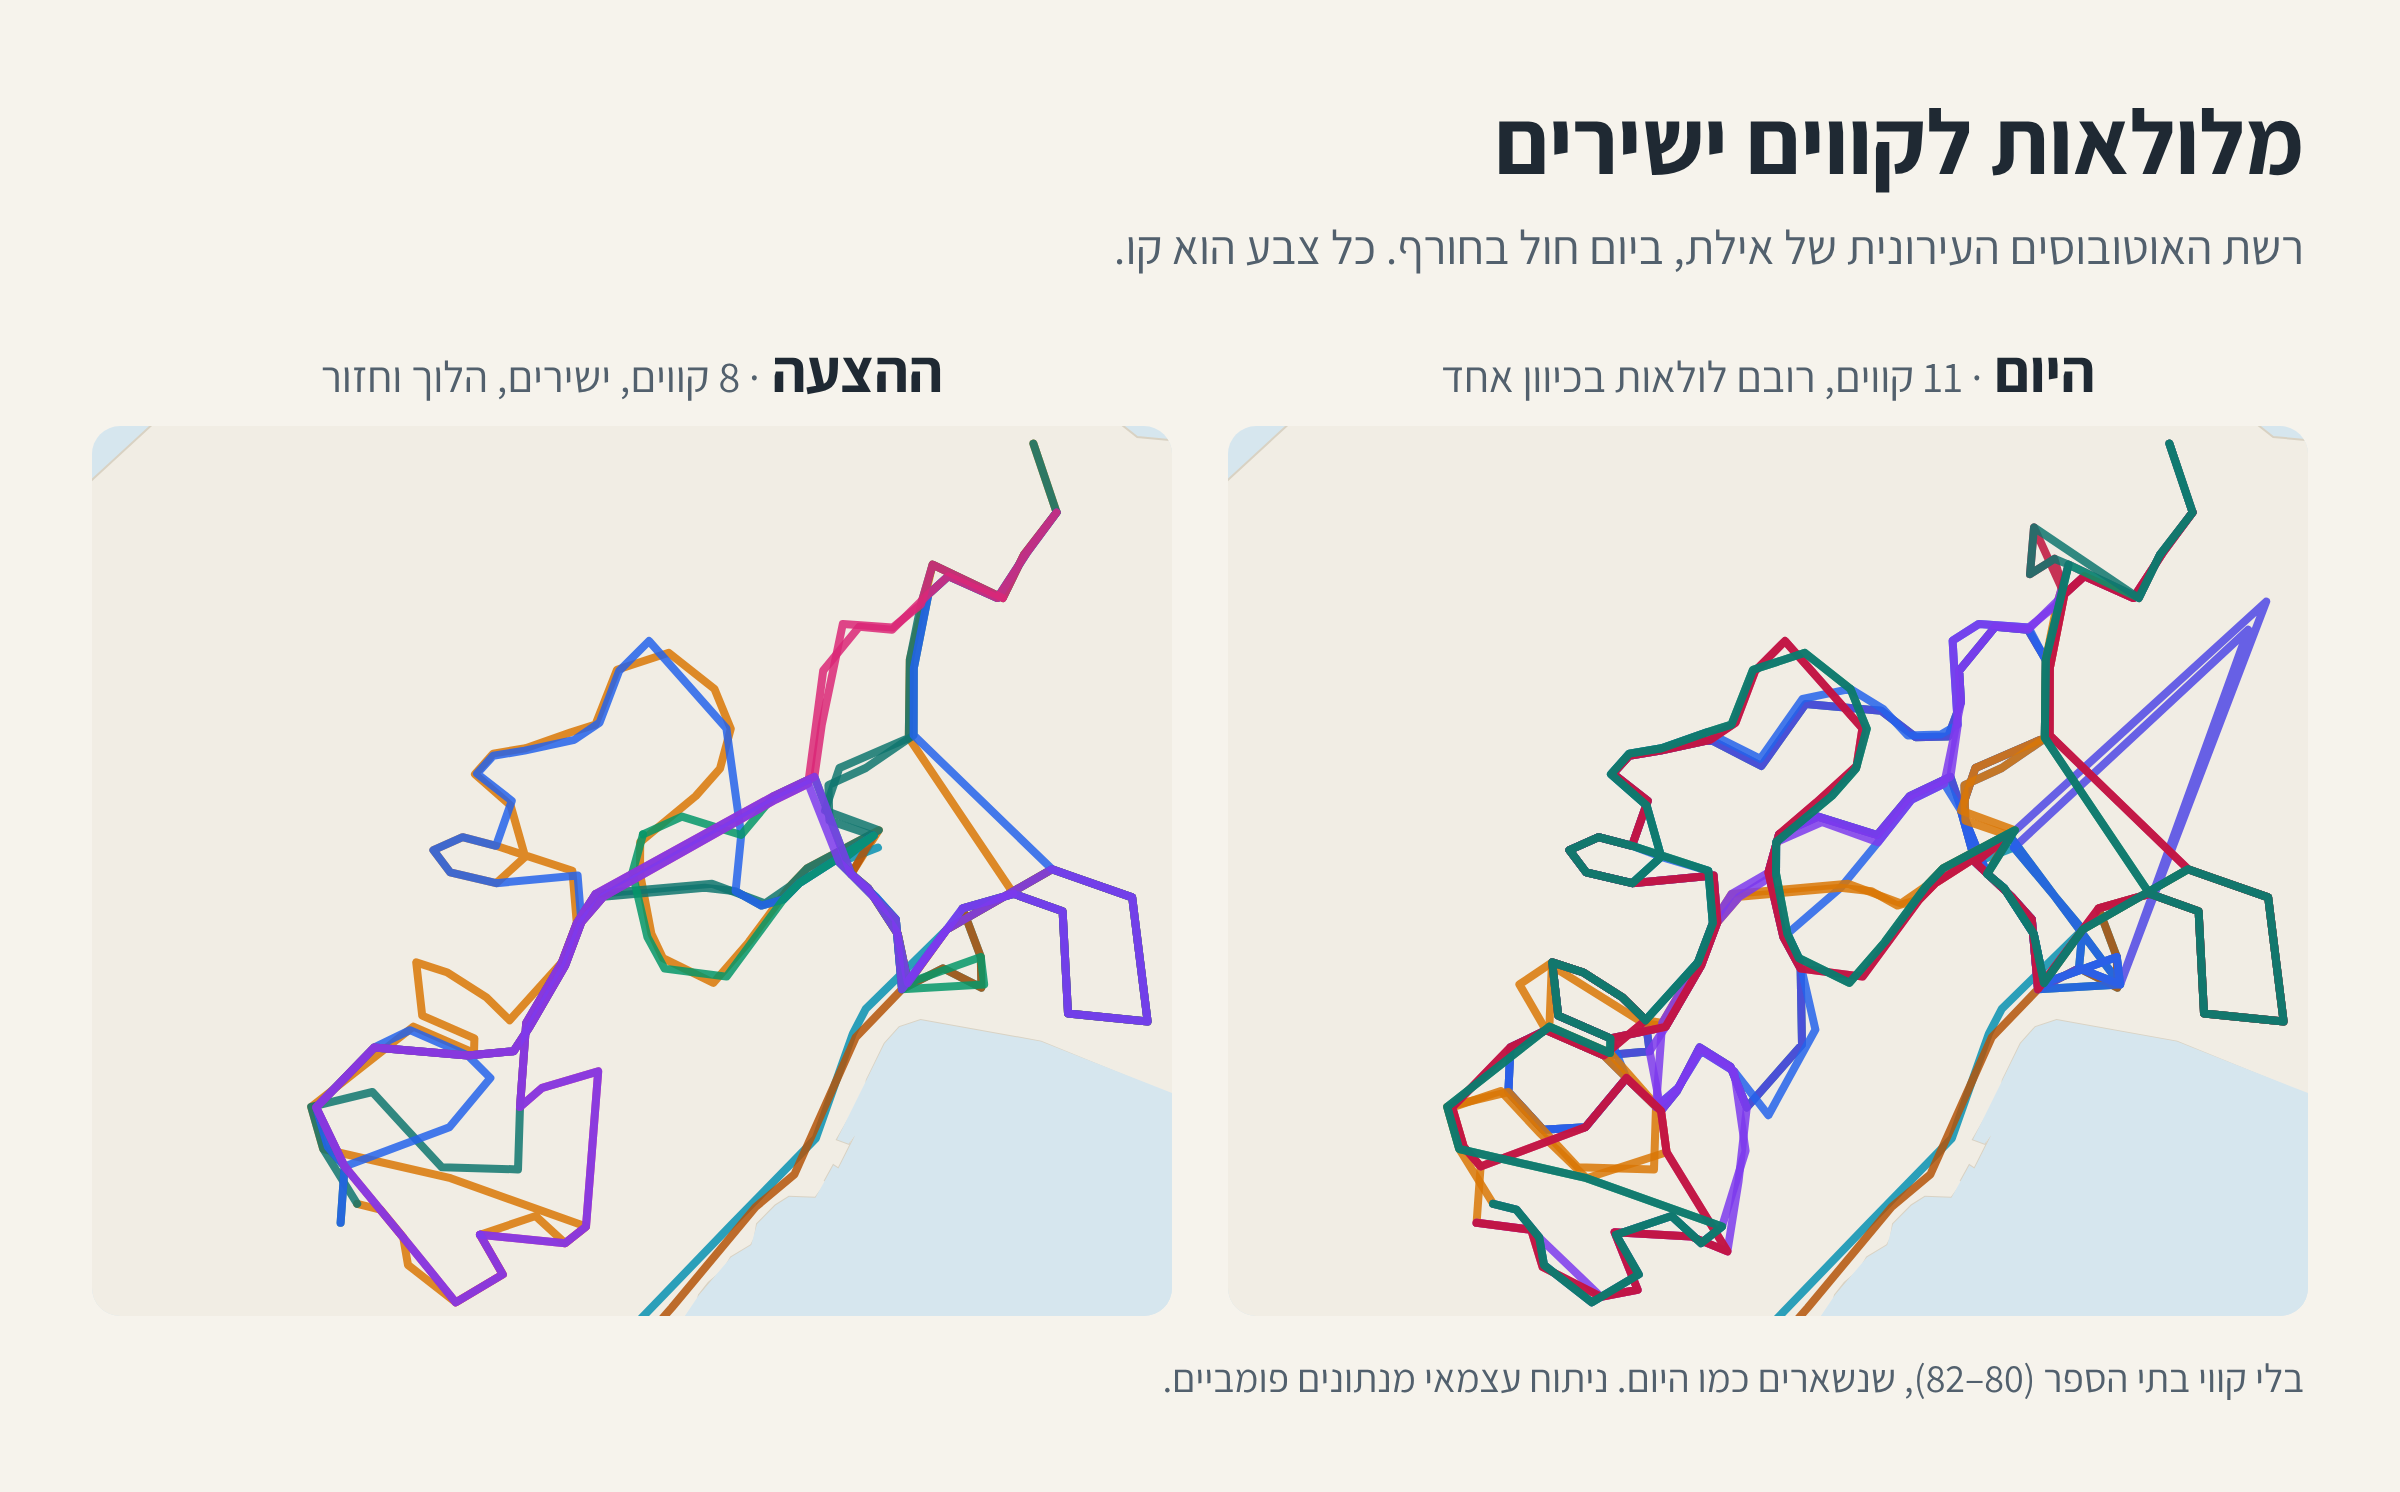
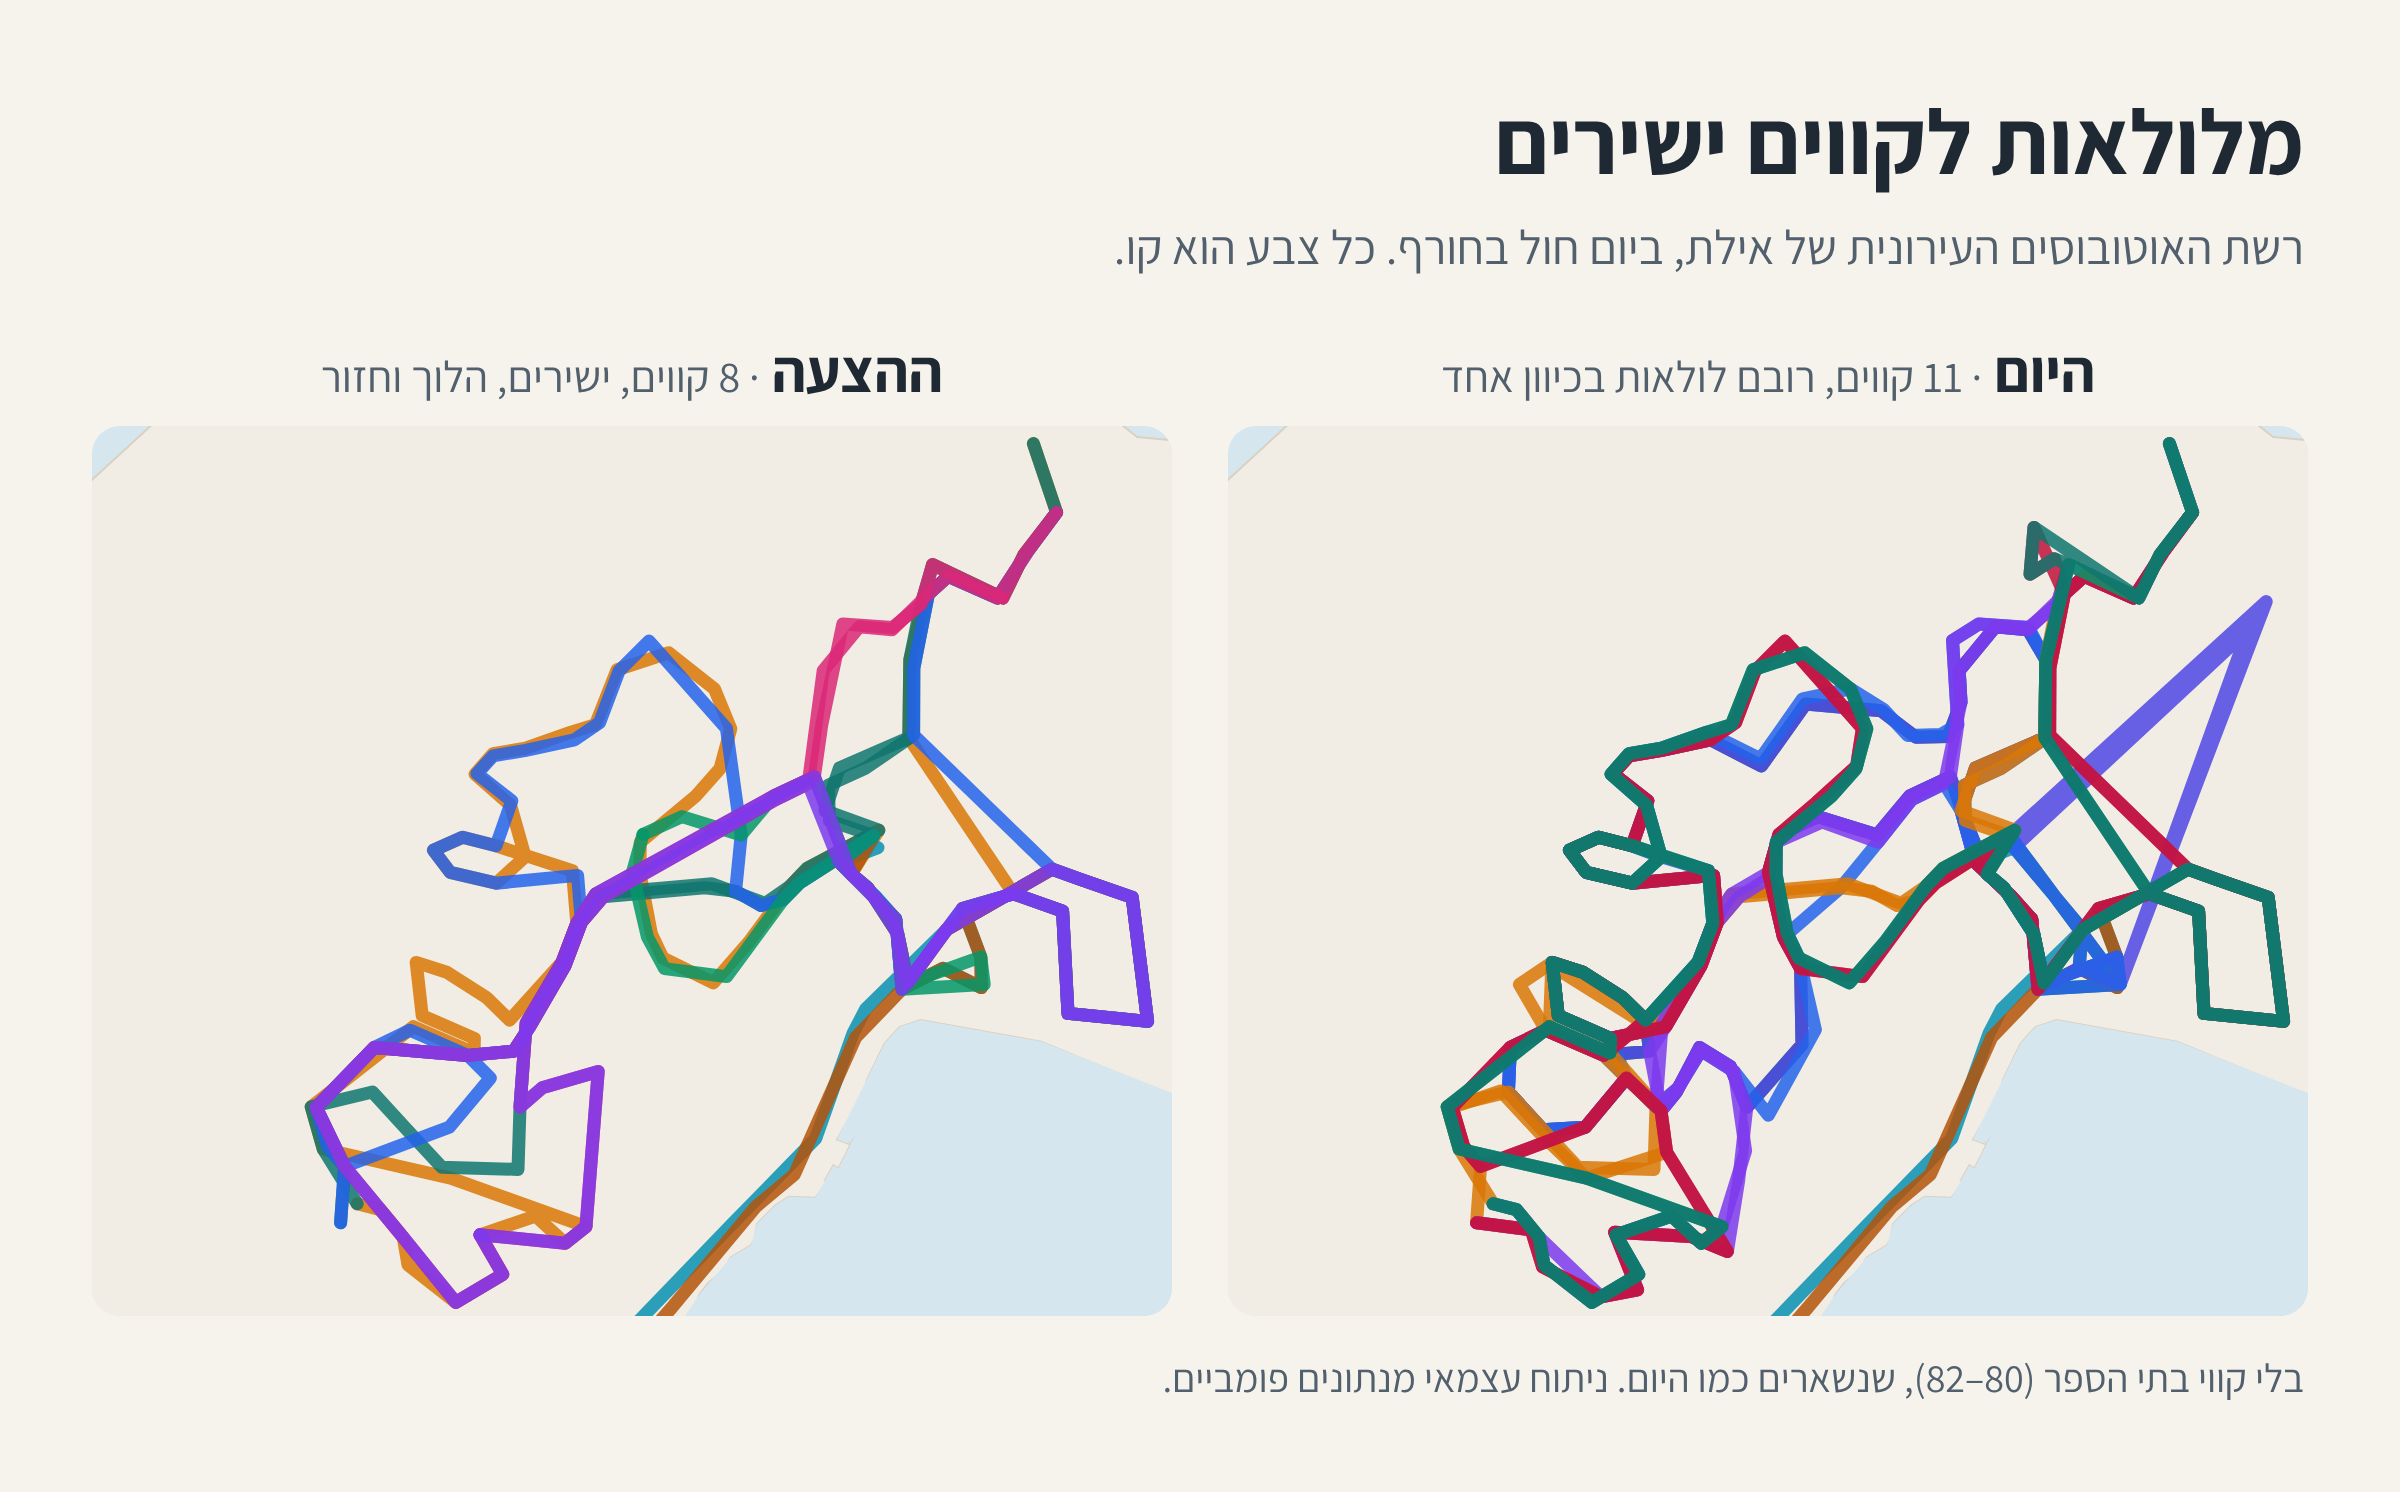
Post image 1: thicker lines
Claude-Session: https://claude.ai/code/session_01Pb1kETP6UjFDnzMiwzuGSv

diff --git a/linkedin/1_network.html b/linkedin/1_network.html
@@ -5,7 +5,7 @@ h1{font-size:46px;margin:0 0 10px;line-height:1.15} p.sub{font-size:24px;margin:
 .maps{display:flex;gap:28px;justify-content:center} figure{margin:0;text-align:center}
 figcaption{font-size:30px;font-weight:700;margin-bottom:8px} figcaption span{font-weight:400;color:#52606d;font-size:22px}
 svg{background:#d6e6ee;border-radius:14px;display:block}
-.land{fill:#f1ede4;stroke:#d9d2c3} .sea{fill:#d6e6ee} .ln{fill:none;stroke-width:4;stroke-linejoin:round;stroke-linecap:round;opacity:.85}
+.land{fill:#f1ede4;stroke:#d9d2c3} .sea{fill:#d6e6ee} .ln{fill:none;stroke-width:6.5;stroke-linejoin:round;stroke-linecap:round;opacity:.85}
 .area{stroke:#fff;stroke-width:1.2} .lbl{font-size:13px;font-weight:700;fill:#1f2933;paint-order:stroke;stroke:#fff;stroke-width:4px}
 .foot{font-size:20px;color:#52606d;margin-top:18px} .leg{display:flex;gap:22px;font-size:22px;margin-top:16px;justify-content:center}
 .leg i{display:inline-block;width:26px;height:18px;border-radius:4px;margin-left:8px;vertical-align:middle}

diff --git a/linkedin/2_areas.html b/linkedin/2_areas.html
@@ -5,7 +5,7 @@ h1{font-size:46px;margin:0 0 10px;line-height:1.15} p.sub{font-size:24px;margin:
 .maps{display:flex;gap:28px;justify-content:center} figure{margin:0;text-align:center}
 figcaption{font-size:30px;font-weight:700;margin-bottom:8px} figcaption span{font-weight:400;color:#52606d;font-size:22px}
 svg{background:#d6e6ee;border-radius:14px;display:block}
-.land{fill:#f1ede4;stroke:#d9d2c3} .sea{fill:#d6e6ee} .ln{fill:none;stroke-width:4;stroke-linejoin:round;stroke-linecap:round;opacity:.85}
+.land{fill:#f1ede4;stroke:#d9d2c3} .sea{fill:#d6e6ee} .ln{fill:none;stroke-width:6.5;stroke-linejoin:round;stroke-linecap:round;opacity:.85}
 .area{stroke:#fff;stroke-width:1.2} .lbl{font-size:13px;font-weight:700;fill:#1f2933;paint-order:stroke;stroke:#fff;stroke-width:4px}
 .foot{font-size:20px;color:#52606d;margin-top:18px} .leg{display:flex;gap:22px;font-size:22px;margin-top:16px;justify-content:center}
 .leg i{display:inline-block;width:26px;height:18px;border-radius:4px;margin-left:8px;vertical-align:middle}

diff --git a/scripts/linkedin_images.py b/scripts/linkedin_images.py
@@ -57,7 +57,7 @@ h1{font-size:46px;margin:0 0 10px;line-height:1.15} p.sub{font-size:24px;margin:
 .maps{display:flex;gap:28px;justify-content:center} figure{margin:0;text-align:center}
 figcaption{font-size:30px;font-weight:700;margin-bottom:8px} figcaption span{font-weight:400;color:#52606d;font-size:22px}
 svg{background:#d6e6ee;border-radius:14px;display:block}
-.land{fill:#f1ede4;stroke:#d9d2c3} .sea{fill:#d6e6ee} .ln{fill:none;stroke-width:4;stroke-linejoin:round;stroke-linecap:round;opacity:.85}
+.land{fill:#f1ede4;stroke:#d9d2c3} .sea{fill:#d6e6ee} .ln{fill:none;stroke-width:6.5;stroke-linejoin:round;stroke-linecap:round;opacity:.85}
 .area{stroke:#fff;stroke-width:1.2} .lbl{font-size:13px;font-weight:700;fill:#1f2933;paint-order:stroke;stroke:#fff;stroke-width:4px}
 .foot{font-size:20px;color:#52606d;margin-top:18px} .leg{display:flex;gap:22px;font-size:22px;margin-top:16px;justify-content:center}
 .leg i{display:inline-block;width:26px;height:18px;border-radius:4px;margin-left:8px;vertical-align:middle}
